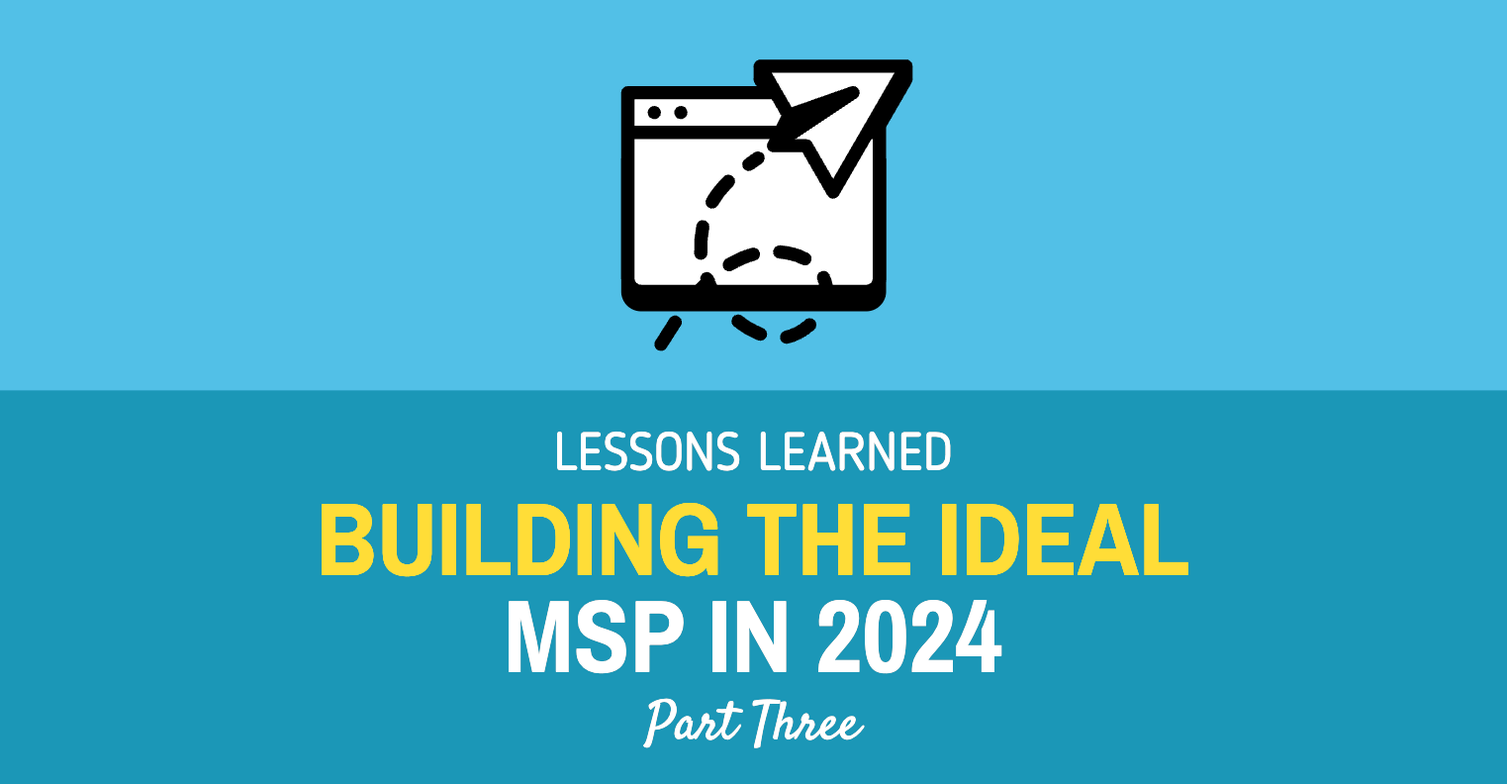
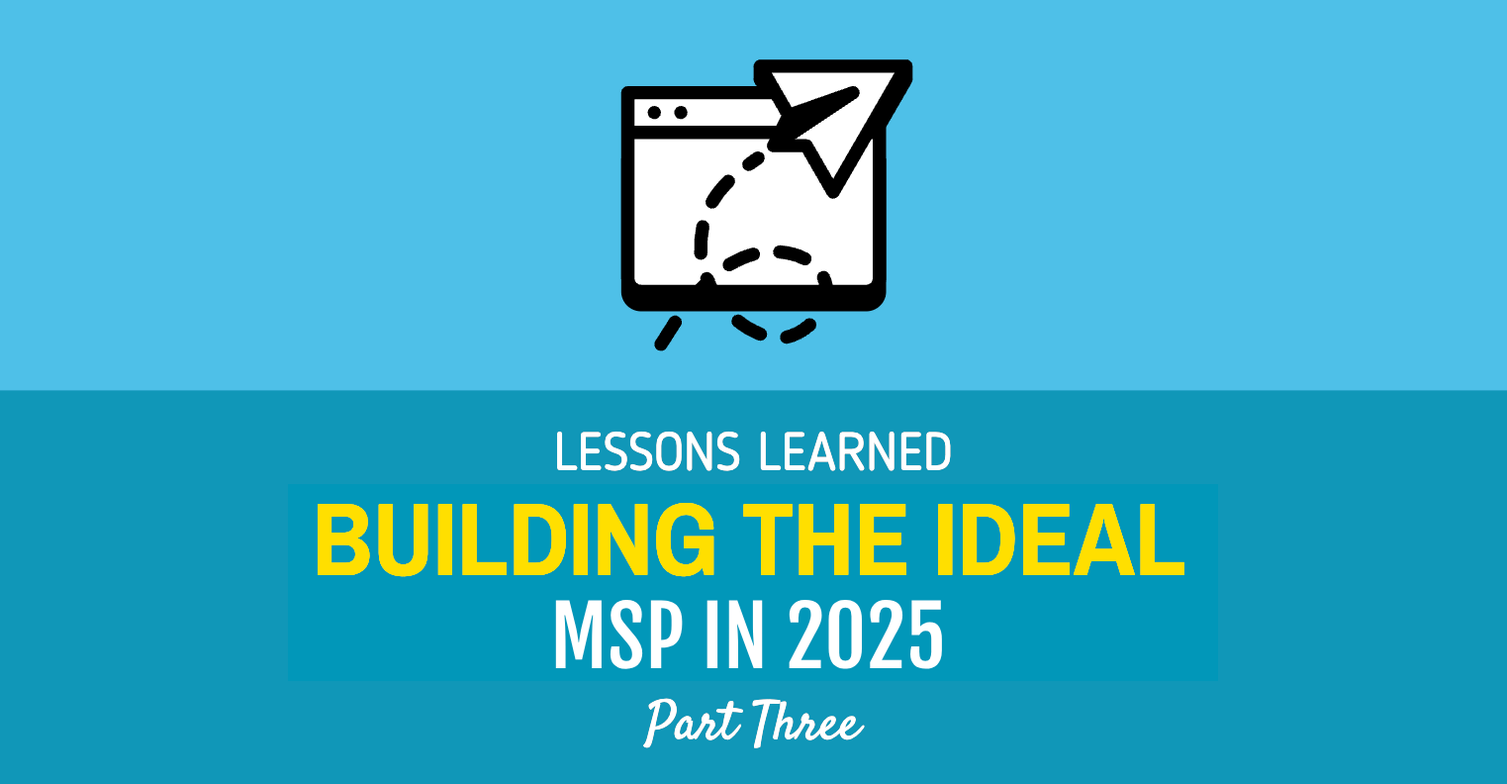
Blog Posts

Changed region(s): [[0.1852, 0.6061, 0.8332, 0.8788]]

diff --git a/_posts/2025-04-06-lessons-learned-building-an-msp-in-2025-lessons-learned-3.md b/_posts/2025-04-06-lessons-learned-building-an-msp-in-2025-lessons-learned-3.md
@@ -1,0 +1,187 @@
+---
+layout: post
+date: '2025-04-06'
+author: Jon Brown
+permalink: /blog/lessons-learned-building-an-msp-in-2025-lessons-learned-3/
+published: true
+title: "Lessons Learned: Scale without the burnout. Lessons learned from an IT Entrepreneur on how to build an ideal, converting, MSP in 2025"
+description: "Lessons learned from an IT Entrepreneur on how to build an ideal, converting, MSP in 2025"
+blogimgpath: 202408034Up
+tags:
+categories:
+  - business
+  - articles
+  - rants
+image: /assets/images/covers/2025/Header-Ideal-MSP-3.png
+thumbnail: /assets/images/covers/2025/Header-Ideal-MSP-3.png
+cta: 2
+comments: true
+series: msp
+---
+
+{% include series.html id="msp" %}
+
+## What I’d Automate, Delegate, and Eliminate
+
+I’ve written about how I’d build an MSP from scratch in 2024. I followed that up with what I’d do differently in 2025 after a few more battle scars. Now, as I reflect on the way this space keeps evolving, I think it’s time to talk about scale—and more specifically, how not to lose your mind while scaling.
+
+If I had to do it again today, here’s what I’d focus on: automation, delegation, and elimination. These are the three levers that I wish I had understood better earlier on. They’re not buzzwords. They’re survival strategies. And they’re the difference between building something sustainable and building yourself a very expensive, very stressful job.
+
+## Automate the Repetitive Before It Repeats
+
+Here’s the truth: if you’re still manually onboarding users in 2025, you’re doing it wrong. The same goes for patch management, ticket triage, alerting, reporting, license reconciliation, and 90% of the crap that quietly eats up your day.
+
+Early on, we were proud of our white-glove processes. “We don’t automate because we care,” we told ourselves. But what we were actually doing was spending hours doing something a script could do in seconds. That doesn’t scale, and it sure as hell doesn’t impress the clients when you're three days late on something because you were too “hands-on.”
+
+Today, I'd build the automation from day one. I'd invest early in RMM tools that actually integrate with the rest of the stack. I’d build playbooks, not just workflows. And I’d standardize—not just for efficiency, but for sanity.
+
+Automate the stuff you touch more than twice. You'll thank yourself later.
+
+## Delegate Like You’re Not the Smartest Person in the Room (Because You Aren’t) 
+
+This one took me way too long to learn. I used to think no one could do things the way I could. Maybe that was true. But doing everything yourself isn't leadership—it’s control. And control doesn’t scale.
+
+If you’re the founder or the technical lead or both, you’ve got to get out of your own way. That means building a team you trust and actually trusting them. It means writing SOPs that someone else can follow without Slack messaging you at 10 PM. It means hiring people for what they’re good at instead of trying to clone yourself.
+
+Would I still get my hands dirty now and then? Absolutely. But I’d be clear on what I need to own versus what I just happen to be good at. The more you delegate, the more time you have to work on the business instead of in it.
+
+And if you think you can’t afford to delegate yet? You can’t afford not to.
+
+## Eliminate the Stuff That Sucks the Life Out of You
+
+Here’s the fun part: you don’t have to do everything. You don’t have to support every tool, every vendor, or every type of client. In fact, trying to be everything to everyone is one of the fastest ways to hate your own business.
+
+What would I eliminate if I were starting over today?
+
+- Break/fix clients. If they’re not on a plan, they’re not a client.
+    
+- Tech debt vendors—those legacy apps that make every ticket take 3x longer.
+    
+- One-off projects with no long-term value.
+    
+- Clients who don’t listen to advice, don’t follow process, and don’t pay on time.
+    
+
+I’d be ruthless about it. Not out of ego, but out of clarity. The energy it takes to support bad fits is the same energy you need to serve your ideal clients well—and to actually grow.
+
+When you eliminate the junk, you make space for the work you _want_ to do.
+
+### It’s Not About Scaling Big—It’s About Scaling Smart
+
+Look, not everyone wants a 50-person MSP. Maybe you want a tight team of five who absolutely crush it. That’s fine. This isn’t about scaling big, it’s about scaling with intention.
+
+You scale by building systems that don't rely on you. You scale by creating repeatable excellence, not one-off heroics. You scale by trusting others, focusing on the work that matters, and letting go of the stuff that doesn’t.
+
+If I were doing it again in 2025, I wouldn’t aim to build a bigger MSP. I’d aim to build a lighter one—a business that runs smoother, makes more sense, and leaves a little room to breathe.
+
+Because at the end of the day, what’s the point of building your own thing if you can’t even enjoy it?
+
+## Okay, But What Would I Actually Do?
+
+### 🔧 Automation: Start With These
+
+You don’t need to go full DevOps engineer to get 80% of the benefits. The goal here isn’t automation for its own sake—it’s about time saved, errors avoided, and consistency you can count on.
+
+Here’s where I’d start:
+
+- **Intune + Autopilot (PC)**  
+    I’d lean hard into Microsoft’s stack for device provisioning. Zero-touch deployment is real, and if your clients are already on M365, you should be living in this space. Autopilot saves hours on onboarding, and combined with Intune, gives you real visibility and control without physically touching a machine.
+    
+- **JAMF Pro or JAMF Now (Mac)**  
+    If you’ve got Mac-heavy clients, JAMF is non-negotiable. JAMF Pro gives you full control over app deployment, security baselines, inventory, and patching. JAMF Now is a lighter version that still handles core needs for smaller shops. You can set up zero-touch deployments for Macs that rival Autopilot on the PC side. It’s what Apple shops expect, and if you don’t offer it, you’re not serious about managing Macs.
+    
+- **Mosyle or Kandji (Mac alternatives)**  
+    If JAMF feels too heavy or your clients want a better UI/UX, Mosyle and Kandji are strong contenders. Mosyle is incredibly scriptable and flexible, while Kandji wins on compliance and aesthetics. Both work well in mixed environments too, which is helpful if your clients are BYOD or hybrid.
+    
+- **SaaS Alerts or Augmentt**  
+    You _need_ a SaaS visibility layer. Clients are stacking up random apps left and right, and you can't manage what you can’t see. SaaS Alerts has come a long way and does a solid job of surfacing user activity anomalies. Augmentt is a solid alternative if you’re going heavier on SaaS management.
+    
+- **CloudRadial or DeskDirector**  
+    These tools automate client communication and give clients a portal that feels modern. Ticket intake, QBR reporting, client education—it’s all there. CloudRadial especially is like giving your clients a dashboard to your MSP without you having to handhold it.
+    
+- **Tactical RMM (PC)**  
+    It’s lightweight, scriptable, and fast. If you want something open-source and punchy, it’s worth looking at—especially if you’re bootstrapping or don’t need the bloated features of legacy tools. (No strong Mac support here, so pair it with JAMF or Mosyle.)
+    
+- **Power Automate + Zapier**  
+    Seriously, don’t sleep on this combo. Power Automate can do some wild stuff inside the M365 universe, and Zapier is still the king for cross-app workflows. You can glue your tools together and build lightweight automations in a day that save you weeks over time.
+    
+### 🧑💼 Delegation: People and Process
+
+Tools are great, but they’re nothing without people who know how to use them—and a system that lets people succeed.
+
+- **Document Everything** with **Scribe** or **Notion**  
+    Stop making tribal knowledge your business model. Record your processes. Use Scribe to generate step-by-step guides from real workflows, or Notion to build a living, breathing SOP hub your team can actually navigate.
+    
+- **Hire Remote, Think Global**  
+    If I had to start again, I’d go international from day one. Platforms like Support Adventure or We Work Remotely give you access to global Tier 1/Tier 2 techs who are hungry to learn. Pair that with good documentation and communication and you’ve got a real foundation.
+    
+- **Client Communication: Standardize the Experience**  
+    Every client should get the same level of responsiveness and clarity. Use **Helpdesk Buttons**, automated email check-ins, or even simple scheduled email reports to keep them in the loop. People don’t just want their problem fixed—they want to know someone’s got it under control.
+    
+### 🧹 Eliminate the Chaos
+
+This is less about tools and more about _decisions_—but the impact is massive.
+
+- **No more all-you-can-eat**  
+    I’d never again offer unlimited anything. Flat-fee plans, yes—but scope needs to be clear, and overages need to be enforced. This keeps both sides honest and prevents client resentment when things go sideways.
+    
+- **Kill the Legacy App Stack**  
+    Don’t be the tech whisperer for ancient Access databases and weird ERP bolt-ons. These become support sinkholes. If the client won’t upgrade, politely walk away.
+    
+- **Standard Stack, No Exceptions**  
+    Choose your stack and live by it. That means picking a firewall vendor, a backup platform, an AV solution—and not deviating. I’d document it, audit against it, and make it part of every contract. Deviations cost time and kill scale.
+    
+- **Audit Clients Like You Audit Vendors**  
+    Treat your client base like a portfolio. Who’s profitable? Who’s a pain? Who listens, who doesn’t? Do a quarterly gut check. If someone drains more than they pay, it’s okay to let them go.
+    
+## Final Thought: Give Future You a Break
+
+Every shortcut you don’t take today is a problem future you is going to have to solve at 2 AM. That’s what this third blog is really about—building with the future in mind.
+
+Automation, delegation, and elimination aren’t optional—they’re essential. And they’re not just technical strategies, they’re personal ones. They’re how you keep this thing sustainable, maybe even enjoyable.
+
+If I had to build it all again, I wouldn’t just build something profitable—I’d build something I could walk away from for a week without it falling apart. That’s real scale. And that's what I’d do differently in 2025.
+
+[Follow me](https://www.linkedin.com/in/jonbrown2/) for more as I explore my next lesson and building block as I craft the ideal MSP in my next post! 
+
+### Sources
+
+**PC & Cross-Platform Tools**
+
+- Microsoft Intune & Autopilot: [https://www.microsoft.com/en-us/microsoft-365/business/microsoft-intune](https://www.microsoft.com/en-us/microsoft-365/business/microsoft-intune)
+    
+- SaaS Alerts: [https://saasalerts.com/](https://saasalerts.com/)
+    
+- Augmentt: [https://www.augmentt.com/](https://www.augmentt.com/)
+    
+- CloudRadial: [https://www.cloudradial.com/](https://www.cloudradial.com/)
+    
+- DeskDirector: [https://www.deskdirector.com/](https://www.deskdirector.com/)
+    
+- Tactical RMM: [https://tacticalrmm.com/](https://tacticalrmm.com/)
+    
+- Power Automate: [https://powerautomate.microsoft.com/](https://powerautomate.microsoft.com/)
+    
+- Zapier: [https://zapier.com/](https://zapier.com/)
+    
+
+**Mac-Centric Tools**
+
+- JAMF Pro: [https://www.jamf.com/products/jamf-pro/](https://www.jamf.com/products/jamf-pro/)
+    
+- JAMF Now: [https://www.jamf.com/products/jamf-now/](https://www.jamf.com/products/jamf-now/)
+    
+- Mosyle: [https://mosyle.com/](https://mosyle.com/)
+    
+- Kandji: [https://www.kandji.io/](https://www.kandji.io/)
+    
+
+**Delegation & Documentation Tools**
+
+- Scribe: [https://scribehow.com/](https://scribehow.com/)
+    
+- Notion: [https://www.notion.so/](https://www.notion.so/)
+    
+- Support Adventure (remote staffing): [https://www.supportadventure.com/](https://www.supportadventure.com/)
+    
+- We Work Remotely (global hiring): [https://weworkremotely.com/](https://weworkremotely.com/)

diff --git a/_posts/2025-04-07-what-really-makes-a-great-IT-support-technician.md b/_posts/2025-04-07-what-really-makes-a-great-IT-support-technician.md
@@ -1,0 +1,82 @@
+---
+layout: post
+date: '2025-04-07'
+author: Jon Brown
+permalink: /blog/what-really-makes-a-great-IT-support-technician/
+published: true
+title: "What Really Makes A Great IT Support Technician?"
+description: "What Really Makes A Great IT Support Technician?"
+blogimgpath: 202408034Up
+tags:
+categories:
+  - articles
+  - rants
+image: /assets/images/covers/2025/IT_support_tech.png
+thumbnail: /assets/images/covers/2025/IT_support_tech.png
+cta: 2
+comments: true
+---
+
+I started thinking about what it means to be a great IT technician. As one of my now roles, IT technician was thrust upon me, among other things, by choice. Primarily because I enjoy it, and so it got me thinking, why do I love it so much? Over the years I have worn the hat of support specialist, web developer, IT manager, IT director, and CEO. I am now the information systems security officer but not matter how hard I try, the pull, and draw of troubleshooting issues pulls on me. 
+
+I suppose it makes sense, its one of the only jobs that I have ever felt, at home with, and so much so that it led me to and through a decade long consulting career. Its one of those jobs that never really felt like work and I feel lucky to have found something that I enjoy and am talented at. But why is that, why is it that I am so drawn to this core element that for many is such a drudgery and a grind. What sets appart the standard IT support technician from the others. 
+
+Obviously passion, if you enjoy what you do you tend to do it wholeheartedly and it just comes easy. The more I grappled with this concept though the more I realized that I was looking internally and not outwardly. I wasn't asking the right question. The question really is what makes a great IT support technician, and the answer is that its not the technician that makes themselves great, its the customer, the client, the person with the problem that makes you great, because you aren't ever great yourself your great because people mandate it. 
+
+## What sets appart great from good?
+
+Let's be clear, I don't think I am a great support technician. I think I am driven, talented and hardworking which are the elements that I control. Its the opinion of those I work with that provide me with the sense of accomplishment that fuels my passion. That said, what sets appart a great tech from the rest of the pack? For me it really comes down to one single thing, WHY. Why is the question that you get often in this field. Why doesn't this work? Why can't I open this file? Why is my screen frozen?
+
+Interestingly enough, if you were to go into the why you would realize fairly quickly that they are not actually interested in they why, they really at the core just want you to fix the issue. A truly great technician knows how to navigate this question and approach. At its core IT is a people skilled based job. Yes, obviously you have to deal with technology but you deal with people more, people who use the technology. You deal with the people who also make the technology and companies that sell the technology. 
+
+The sooner you understand each entities motivations you start to learn why they do what they do, and when you understand why tech companies do what they do then the decisions they make at the technical level make more sense. In short a great technician knows how to answer the why, but seldom actually explains it, instead they fix the issue while providing a good bedside manner to the obviously frustrated individual who just can't seem to print. 
+
+## Why? 
+
+So lets dig into the why a little bit more. Sometimes users really do want to know why things aren't working. A good technician fixes the issue a great technician knows what information to relay to whom and when. They can read body language, take cues and provide the information in a non technial and non threatening way. Great technicians are good storytellers, they can help people understand why an issue happened and what they can do to avoid it by using analogies, or metaphors. 
+
+Great technicians can tell when they have explained too much. Its sometimes not easy to tell when its time to stop talking and wrap up your point and a great tech knows how to not get stuck in a midwest goodbye situation. 
+
+Sometimes you don't know why and you never will know why. Great technicians will never make up explanations or gaslight people, if they don't know they simply admit that they are just as confused as you are, reassuring you that you are working on a solution and will keep them informed when you have more information. 
+
+Great technicians agonize about the communication, of system changes knowing that the why is inevitably coming. A good IT communication tries to get ahead of all the potential whys, but welcomes users to ask questions. 
+
+### Patience Is a Skill, Not a Trait
+
+It took me years to realize that patience isn't something you're born with—it's something you practice, over and over. The best IT support folks aren't calm because they're naturally zen; they're calm because they've been through the fire enough times to know that frustration doesn't solve anything. They've been yelled at, looped into never-ending tickets, blamed for things outside their control—and they still show up the next day ready to help.
+
+Being patient doesn’t mean being a doormat. It means you can walk someone through a five-step process twelve times without letting your tone change. It means you can be empathetic to the person who's had their day ruined by something that seems small to you but is huge to them. That kind of patience creates trust—and that trust is the foundation of a great support relationship.
+
+### Pattern Recognition
+
+You do this long enough and you start to see the matrix. Not just in the technology—though yes, you’ll know exactly which firmware version caused that obscure printer crash—but in the behaviors, the language people use when they report problems, the subtle signs of larger systemic issues.
+
+Great technicians aren't just solving problems in isolation. They're looking for patterns. That one user who keeps reporting latency? Maybe it’s not their machine. Maybe it’s a switch on the floor that’s dying slowly. A flurry of login issues on a Monday morning? Maybe there's a policy misconfiguration rolling out with the GPO.
+
+You start seeing these problems like puzzle pieces, and you don’t just fix the broken piece—you start questioning the whole puzzle.
+
+### Ownership is Everything
+
+One of the traits I’ve seen over and over again in the greats is ownership. It's not just about taking responsibility when something breaks—it's about making sure things get resolved, even when they’re not technically "your job."
+
+Great techs don’t pass the buck. They escalate when they need to, but they never drop the baton. They follow up. They circle back. They make sure the user knows they’ve been heard, even if the issue takes days to resolve.
+
+Sometimes ownership looks like sending one more email at the end of the day. Sometimes it’s documenting what you found so the next tech doesn’t have to reinvent the wheel. It’s the mindset of: If I touched it, I’ll see it through.
+
+### The Invisible Work
+
+Here’s the thing about support: when you’re doing it right, no one notices. The printer just works. The app launches. The login succeeds. And when things break, they get fixed so quickly and so smoothly that the end user barely registers the interruption.
+
+There’s a kind of quiet pride in that. Great technicians live in that invisible space. They're like stagehands in a theater—if they’re doing their job well, you’ll never know they were there. But without them, the show doesn't go on.
+
+It’s not glamorous. It doesn’t come with a standing ovation. But there’s deep satisfaction in knowing that hundreds of people were able to do their jobs because you did yours.
+
+### Conclusion: It's About People
+
+Here’s the thing about support: when you’re doing it right, no one notices. The printer just works. The app launches. The login succeeds. And when things break, they get fixed so quickly and so smoothly that the end user barely registers the interruption.
+
+There’s a kind of quiet pride in that. Great technicians live in that invisible space. They're like stagehands in a theater—if they’re doing their job well, you’ll never know they were there. But without them, the show doesn't go on.
+
+It’s not glamorous. It doesn’t come with a standing ovation. But there’s deep satisfaction in knowing that hundreds of people were able to do their jobs because you did yours.
+
+If you found this post useful, [Follow me](https://www.linkedin.com/in/jonbrown2/) and comment with questions, or feedback.

diff --git a/_posts/2025-04-08-troubleshooting-standard-routing-policies-in-jamf-security-cloud.md b/_posts/2025-04-08-troubleshooting-standard-routing-policies-in-jamf-security-cloud.md
@@ -1,0 +1,92 @@
+---
+layout: post
+date: '2025-04-08'
+author: Jon Brown
+permalink: /blog/troubleshooting-standard-routing-policies-in-jamf-security-cloud/
+published: true
+title: "Troubleshooting Standard Routing Policies in JAMF Security Cloud"
+description: "Troubleshooting Standard Routing Policies in JAMF Security Cloud"
+blogimgpath: 202408034Up
+tags:
+categories:
+  - jamf
+  - articles
+  - scripts
+image: /assets/images/covers/2025/jamf_security_cloud.png
+thumbnail: /assets/images/covers/2025/jamf_security_cloud.png
+cta: 2
+comments: true
+---
+
+## The Problem: Standard Routing Policies Need Fixing
+
+As a fairly new administrator of JAMF Security Cloud, it was the ease of which its administered that admittedly drew me in. Quite an elegant solution for securing the various apps on business workstations with premade app based VPN routing rules built right in, I was hooked. The concept is simple. Turn on the policies, create your enrollment and deploy and your done. 
+
+The problem is that each rule is made up of allowed subnets, and domains that change. This is problematic because if Microsoft or Slack introduces a new content delivery network or domain into their app, and the policy is not allowing this new traffic the user experience is less than ideal, and you as the administrator are left trying to figure out whats going on. 
+
+Is this an app issue? Is this a network issue? Did the developer just push out a bad update? Its not a fun position to be in. 
+
+## Ruling Out Avenues
+
+It was one such app that started giving me issues, Microsoft Teams for iOS. I have almost never had any issues with iOS, typically they are rock solid as they are vetted at least in some part by Apple and most developers tend to push regular updates, patches and fixes in most cases weekly. 
+
+However, when a new version of Teams made its way onto our BYOD devies it spelled trouble for my fleet. Users started experiencing strange issues. Now we use app based VPN in JAMF Pro and we ensure that JAMF Trust is setup and works on every device. So the question really was, was this issue related to a Teams service issue? It certainly seemed plausible. At the exact time the issue started being reported there was a known minor Teams outage on their status tracker. 
+
+Was this a VPN issue? Looking at JAMF Security cloud all systems seemed like it was a go. Not all elements in the app were malfunctioning, some features worked fine while others just seemed slow and unresponsive. 
+
+Maybe it was just a bad update as I mentioned before. I opened support tickets with all of the usual suspects. Apple, Microsoft and JAMF. 
+
+## Digging in Deep
+
+While the Apple and Microsoft tickets led to the usual places. Have you tried removing the app? Have you tried clearing the cache? Have you tried resetting your phone? Have you tried a different network? Of course nothing helped. 
+
+JAMF referred me to their security team and they started digging in. Looks like the policy was not including all the domains and subnets that were documented in a recent update in [Microsofts URL allow](https://learn.microsoft.com/en-us/microsoft-365/enterprise/urls-and-ip-address-ranges?view=o365-worldwide) list article for Microsoft Teams. 
+
+After two weeks of solid testing we finally got to the bottom of all the URLs that were part of the built in policy and which ones needed to be added. 
+
+### Allowed & Required URLs for Jamf Security Cloud App VPN Policy (Microsoft Services)
+
+| Category                         | URLs / Subnets                                                                 |
+|----------------------------------|---------------------------------------------------------------------------------|
+| **Prebuilt Policy (Default)**    | *.adl.windows.com  |
+|                                  | *.mediaservices    |
+|                                  | windows.net        |
+|                                  | *.msecnd.net       |
+|                                  | *.msteams          |
+|                                  | *.sfbassets.com    |
+|                                  | *.skvne.com        |
+|                                  | *.skvneforbusiness.com |
+|                                  | *.adl.windows.com  |
+|                                  | *.mediaservices.windows.net |
+|                                  | *.msecnd.net       |
+|                                  | *.mstea.ms         |
+|                                  | *.sfbassets.com    |
+|                                  | *.skype.com        |
+|                                  | *.skypeforbusiness.com |
+|                                  | * teams.microsoft.com |
+|                                  | skype.com          |
+|                                  | skypeforbusiness.com |
+|                                  | teams.microsoft.com |
+| **Additional Required Entries** | *.lync.com         |
+|                                  | *.resources.office.net |
+|                                  | *.static.microsoft |
+|                                  | *.teams.cloud.microsoft |
+|                                  | *.usercontent.microsoft |
+|                                  | *.users.storage.live.com |
+|                                  | compass-ssl.microsoft.com |
+|                                  | join.secure.skypeassets.com |
+|                                  | mamservice.manage.microsoft.com |
+|                                  | mlccdnprod.azureedge.net |
+|                                  | resources.office.net.edgekey.net |
+|                                  | 52.122.0.0/15       |
+|                                  | 52.244.160.207/32   |
+|                                  | 52.238.119.141/32   |
+
+## Conclusion
+
+Almost immediately once the policy was updated things returned to normal. Its a good reminder that you can't assume any company is always working to update and test changes in your ecosystem. At the end of the day its your responsibility to maintain it and understand where the weaknesses are. JAMF posted back that they will update these URLS into their default prebuilt policy but it was clear that they also are not always aware of underlying changes at the app level. 
+
+If you found this post useful, [Follow me](https://www.linkedin.com/in/jonbrown2/) and comment with questions, or feedback. As always here are the sources I referenced throughout this blog post.
+
+### Sources
+- [Microsoft 365 URLs and IP address ranges](https://learn.microsoft.com/en-us/microsoft-365/enterprise/urls-and-ip-address-ranges?view=o365-worldwide)
